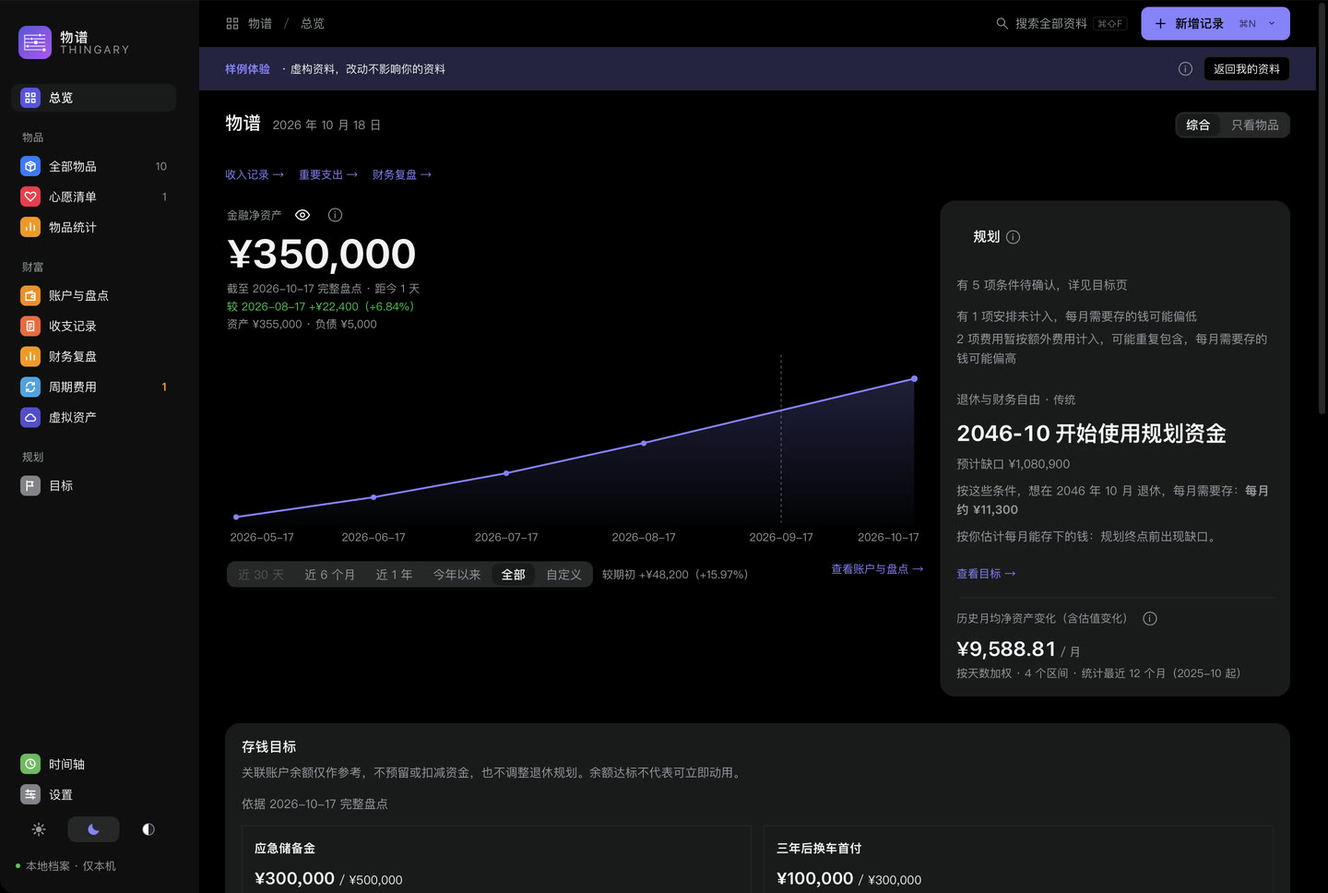
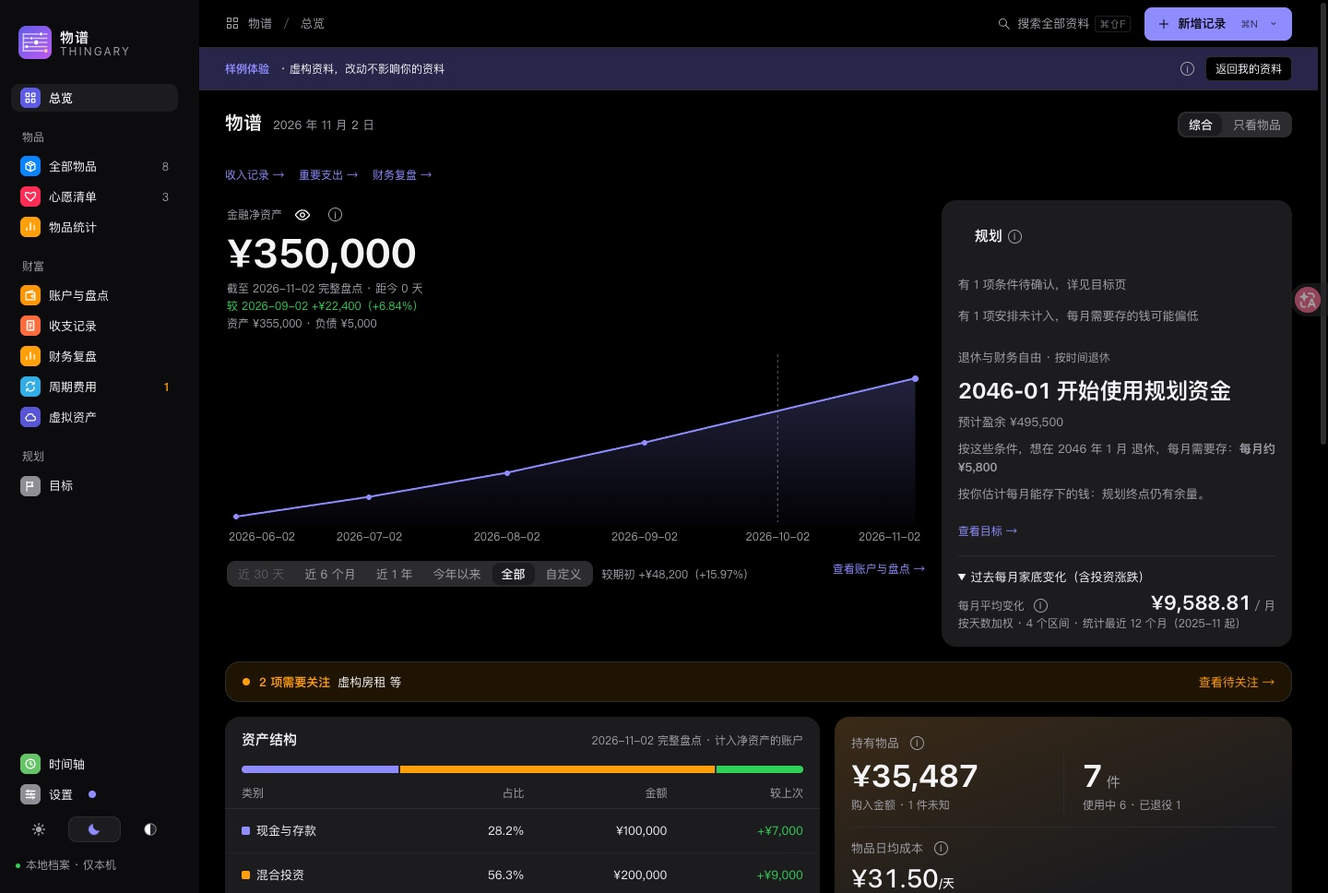
docs: refresh 0.1.0 screenshots and image audit

diff --git a/site/index.html b/site/index.html
@@ -81,14 +81,14 @@
 
         <figure class="showcase">
           <div class="showcase-frame"><picture><source media="(prefers-color-scheme: dark)" srcset="../docs/images/overview-dark.jpg"><img src="../docs/images/overview-light.jpg" width="1440" height="968" fetchpriority="high" alt="物谱总览 / Thingary overview: net-worth trend and planning summary, using fictional records"></picture></div>
-          <figcaption class="showcase-caption"><span class="utility" lang="en">THINGARY / OVERVIEW</span><span class="zh" lang="zh-CN">真实应用界面 · 虚构样例资料</span><span class="en" lang="en">Actual app · Fictional sample records</span></figcaption>
+          <figcaption class="showcase-caption"><span class="utility" lang="en">THINGARY / OVERVIEW</span><span class="zh" lang="zh-CN">0.1.0 浏览器预览 · 虚构样例资料 · 非原生截图</span><span class="en" lang="en">0.1.0 browser preview · Fictional sample records · Not a native capture</span></figcaption>
         </figure>
         <div class="principles" aria-label="特点 / At a glance"><span><svg aria-hidden="true"><use href="#check"/></svg><span class="zh" lang="zh-CN">本地使用</span><span class="en" lang="en">Local first</span></span><span><svg aria-hidden="true"><use href="#check"/></svg><span class="zh" lang="zh-CN">无需账号</span><span class="en" lang="en">No account</span></span><span><svg aria-hidden="true"><use href="#check"/></svg><span class="zh" lang="zh-CN">代码开源</span><span class="en" lang="en">Open-source code</span></span></div>
       </section>
       <section id="film" class="film wrap" aria-label="介绍视频 / Film">
         <figure class="showcase">
           <div class="showcase-frame"><video controls playsinline preload="none" width="1920" height="1080" poster="../docs/images/thingary-film-poster.jpg"><source src="../docs/images/thingary-film.mp4" type="video/mp4"><a href="../docs/images/thingary-film.mp4">下载介绍视频 / Download the film</a></video></div>
-          <figcaption class="showcase-caption"><span class="utility" lang="en">THINGARY / FILM · 0:53</span><span class="zh" lang="zh-CN">53 秒看懂物谱 · 真实应用界面，虚构样例资料</span><span class="en" lang="en">53-second film · Actual app, fictional records · Chinese captions</span></figcaption>
+          <figcaption class="showcase-caption"><span class="utility" lang="en">THINGARY / FILM · 0:53</span><span class="zh" lang="zh-CN">53 秒看懂物谱 · 浏览器界面预览，虚构样例资料，非原生录像</span><span class="en" lang="en">53-second film · Browser UI preview, fictional records · Not a native recording</span></figcaption>
         </figure>
       </section>
       <section id="features" class="features wrap" aria-label="功能 / Features">
@@ -101,7 +101,7 @@
     <div class="feature-copy"><p class="feature-tag">账户与盘点</p><h3>分散的余额，<br>完整的家底。</h3>
       <p>银行卡、余额宝、券商、公积金，还有房贷，也可以记外币账户和按份额持有的投资。把资产与欠款放在一起，定期核对余额，看清净资产如何变化。</p><div class="feature-note">每月或每季盘点一次。<br>不必把生活变成一笔笔流水。</div>
     </div>
-    <figure class="feature-art"><a href="../docs/images/wealth-light.jpg" aria-label="查看账户与盘点完整截图"><img src="../docs/images/wealth-light.jpg" width="1440" height="968" loading="lazy" alt="账户与盘点：资产负债汇总与净资产趋势，虚构资料"></a><figcaption>同一份记录，连起这一次与上一次盘点。</figcaption></figure>
+    <figure class="feature-art"><a href="../docs/images/wealth-light.jpg" aria-label="查看账户与盘点浏览器预览大图"><img src="../docs/images/wealth-light.jpg" width="1440" height="968" loading="lazy" alt="0.1.0 账户与盘点浏览器预览：资产负债汇总与净资产趋势，虚构资料"></a><figcaption>同一份记录，连起这一次与上一次盘点。<small>0.1.0 浏览器预览 · 虚构资料 · 非原生</small></figcaption></figure>
   </article>
   <article class="feature reverse">
     <div class="feature-copy"><p class="feature-tag">目标与规划</p><h3>想过的生活，<br>有可以核对的计划。</h3>
@@ -110,14 +110,14 @@
 <details><summary>歇一阵能撑多久？</summary><p>临时比较空窗、开销或换工作的影响。试算不改账户余额，结论也不是收益承诺。</p></details>
 </div>
     </div>
-    <figure class="feature-art"><a href="../docs/images/planning-goals.jpg" aria-label="查看目标与规划完整截图"><img src="../docs/images/planning-goals.jpg" width="1440" height="968" loading="lazy" alt="目标页：左侧计算条件，右侧结论与资产轨迹，虚构资料"></a><figcaption>先看结论，再按需展开依据与假设。</figcaption></figure>
+    <figure class="feature-art"><a href="../docs/images/planning-goals.jpg" aria-label="查看目标与规划浏览器预览大图"><img src="../docs/images/planning-goals.jpg" width="1440" height="968" loading="lazy" alt="0.1.0 目标页浏览器预览：左侧计算条件，右侧结论，虚构资料"></a><figcaption>先看结论，再按需展开依据与假设。<small>0.1.0 浏览器预览 · 虚构资料 · 非原生</small></figcaption></figure>
   </article>
   <div class="collection"><article>
-<figure class="feature-art"><a href="../docs/images/assets-light.jpg" aria-label="查看物品档案完整截图"><img src="../docs/images/assets-light.jpg" width="1440" height="968" loading="lazy" alt="物品档案：虚构物品的购买信息、状态与持有成本"></a></figure>
+<figure class="feature-art"><a href="../docs/images/assets-light.jpg" aria-label="查看物品档案浏览器预览大图"><img src="../docs/images/assets-light.jpg" width="1440" height="968" loading="lazy" alt="0.1.0 物品档案浏览器预览：虚构物品的购买信息、状态与持有成本"></a><figcaption>0.1.0 浏览器预览 · 虚构资料 · 非原生</figcaption></figure>
 <h3>用心拥有的，值得留个档。</h3><p>照片、购买成本、维修与保障，放在同一份物品档案里。可以独立使用，也可以按需开启。</p>
 </article>
 <article>
-<figure class="feature-art"><a href="../docs/images/annual-review.jpg" aria-label="查看区间回顾完整截图"><img src="../docs/images/annual-review.jpg" width="1440" height="968" loading="lazy" alt="区间回顾：近 1 年的盘点变化、收入和重要支出，虚构资料"></a></figure>
+<figure class="feature-art"><a href="../docs/images/annual-review.jpg" aria-label="查看区间回顾浏览器预览大图"><img src="../docs/images/annual-review.jpg" width="1440" height="968" loading="lazy" alt="0.1.0 区间回顾浏览器预览：近 1 年的盘点变化、收入和重要支出，虚构资料"></a><figcaption>0.1.0 浏览器预览 · 虚构资料 · 非原生</figcaption></figure>
 <h3>偶尔回头，看看走了多远。</h3><p>近 1 年、今年以来、全部或自选日期，回顾积累与支出。净资产变化和投资收益，始终分开看。</p>
 </article>
 </div>
@@ -131,7 +131,7 @@
     <div class="feature-copy"><p class="feature-tag">Account check-ins</p><h3>Separate accounts.<br>One clear picture.</h3>
       <p>Bring balances and debts together, including bank accounts, investments, housing provident funds, and loans; foreign-currency accounts and share-based holdings are supported. Check in periodically to follow your net worth.</p><div class="feature-note">Once a month or quarter.<br>No daily transaction logging required.</div>
     </div>
-    <figure class="feature-art"><a href="../docs/images/wealth-light.jpg" aria-label="View full account check-in screenshot"><img src="../docs/images/wealth-light.jpg" width="1440" height="968" loading="lazy" alt="Account check-ins with assets, debts, and a net-worth trend; fictional data"></a><figcaption>A record of where you are, and how it has changed.</figcaption></figure>
+    <figure class="feature-art"><a href="../docs/images/wealth-light.jpg" aria-label="View the full account check-in browser preview"><img src="../docs/images/wealth-light.jpg" width="1440" height="968" loading="lazy" alt="0.1.0 browser preview of account check-ins with assets, debts, and a net-worth trend; fictional data"></a><figcaption>A record of where you are, and how it has changed.<small>0.1.0 browser preview · Fictional data · Not native</small></figcaption></figure>
   </article>
   <article class="feature reverse">
     <div class="feature-copy"><p class="feature-tag">Goals and planning</p><h3>Your life plans.<br>Numbers you can check.</h3>
@@ -140,14 +140,14 @@
 <details><summary>How long could I take off?</summary><p>Compare a work break, different expenses, or a job change without changing account balances. Estimates are not promised returns.</p></details>
 </div>
     </div>
-    <figure class="feature-art"><a href="../docs/images/planning-goals.jpg" aria-label="View full planning screenshot"><img src="../docs/images/planning-goals.jpg" width="1440" height="968" loading="lazy" alt="Planning goals: conditions on the left, conclusion and asset trajectory on the right; fictional data"></a><figcaption>See the conclusion, then inspect its assumptions.</figcaption></figure>
+    <figure class="feature-art"><a href="../docs/images/planning-goals.jpg" aria-label="View the full planning browser preview"><img src="../docs/images/planning-goals.jpg" width="1440" height="968" loading="lazy" alt="0.1.0 planning browser preview: conditions on the left and conclusion on the right; fictional data"></a><figcaption>See the conclusion, then inspect its assumptions.<small>0.1.0 browser preview · Fictional data · Not native</small></figcaption></figure>
   </article>
   <div class="collection"><article>
-<figure class="feature-art"><a href="../docs/images/assets-light.jpg" aria-label="View full belongings screenshot"><img src="../docs/images/assets-light.jpg" width="1440" height="968" loading="lazy" alt="Optional belongings catalog with fictional items and ownership costs"></a></figure>
+<figure class="feature-art"><a href="../docs/images/assets-light.jpg" aria-label="View the full belongings browser preview"><img src="../docs/images/assets-light.jpg" width="1440" height="968" loading="lazy" alt="0.1.0 belongings browser preview with fictional items and ownership costs"></a><figcaption>0.1.0 browser preview · Fictional data · Not native</figcaption></figure>
 <h3>A place for the things you keep.</h3><p>Photos, purchase costs, repairs, and warranties, together. Use belongings records independently, or enable them when you need them.</p>
 </article>
 <article>
-<figure class="feature-art"><a href="../docs/images/annual-review.jpg" aria-label="View full period review screenshot"><img src="../docs/images/annual-review.jpg" width="1440" height="968" loading="lazy" alt="Period review with balance changes, income, and major expenses; fictional data"></a></figure>
+<figure class="feature-art"><a href="../docs/images/annual-review.jpg" aria-label="View the full period review browser preview"><img src="../docs/images/annual-review.jpg" width="1440" height="968" loading="lazy" alt="0.1.0 period review browser preview with balance changes, income, and major expenses; fictional data"></a><figcaption>0.1.0 browser preview · Fictional data · Not native</figcaption></figure>
 <h3>Look back. See what has changed.</h3><p>Review the last year, year to date, all time, or custom dates. Net-worth changes and investment profit stay distinct.</p>
 </article>
 </div>

diff --git a/docs/images/README.md b/docs/images/README.md
@@ -1,16 +1,73 @@
 # 界面截图与维护
 
+## 0.1.0 对照（2026-11-02）
+
+下表逐张核对当前文件。2026-11-02 使用本分支的 0.1.0 源码运行 `visual-preview.html?demo=1&style=bento`，由 Ego Lite（Chromium）在 1440×968 视口捕获总览浅色／深色、账户与盘点、全部物品、目标、区间回顾和存钱目标；内存样例全部为虚构资料，隐藏了开发预览角标。七张 PNG 转成 JPEG 后替换同名文件，`walkthrough.gif` 再由这些 0.1.0 浏览器截图重建。浏览器预览证明当前前端布局与展示，**不是 macOS／Windows 原生截图，也不替代原生功能验收**。
+
+`start-choice.jpg` 展示已取消的首次用途选择页。0.1.0 首次启动直接进入虚构样例，因此删除该图及用户指南引用；来源设置仍可能使用同名的内部组件，但那不是本图展示的空资料起步页。
+
+| 文件 | 当前引用位置 | 与 0.1.0 一致 | 依据／处理 |
+|---|---|---|---|
+| `annual-review.jpg` | `site/index.html` | 是（浏览器预览） | 由当前 0.1.0 源码捕获；画面为「区间回顾」默认近 1 年。 |
+| `assets-light.jpg` | `docs/USER_GUIDE.md`、`site/index.html` | 是（浏览器预览） | 由当前 0.1.0 源码捕获；选中 MacBook Pro 后显示摘要。 |
+| `backup-security.jpg` | 未在用户文档或官网引用 | 未验证 | 来源记录为 0.0.7 历史原生图；未按 0.1.0 原生重拍。 |
+| `backup-settings.jpg` | `docs/USER_GUIDE.md` | 未验证 | 0.0.5 历史原生图；当前源码仍复用同一数据管理入口，但未做 0.1.0 原生核对。 |
+| `career-trial.jpg` | 未在用户文档或官网引用 | 未验证 | 0.0.5 历史图，来源记录已注明入口后移；仅作历史证据。 |
+| `expenses-year.jpg` | `docs/USER_GUIDE.md` | 未验证 | 0.0.5 历史原生图；未按 0.1.0 重拍。 |
+| `finance-records.jpg` | `docs/USER_GUIDE.md` | 未验证 | 0.0.5 历史原生图；未按 0.1.0 重拍。 |
+| `finance-review.jpg` | `docs/USER_GUIDE.md` | 未验证 | 0.0.8 历史原生图；当前「本期复盘」页仍需原生核对。 |
+| `first-item-form.jpg` | `docs/USER_GUIDE.md` | 未验证 | 0.0.6 历史原生图；当前源码仍有新增物品表单，未据此宣称 0.1.0 原生一致。 |
+| `first-snapshot-form.jpg` | `docs/USER_GUIDE.md` | 未验证 | 0.0.5 历史原生图；首次盘点流程未按 0.1.0 原生重拍。 |
+| `first-snapshot-result.jpg` | `docs/USER_GUIDE.md` | 未验证 | 0.0.5 历史原生图；首次盘点流程未按 0.1.0 原生重拍。 |
+| `install-flow.svg` | `docs/USER_GUIDE.md` | 不适用 | 安装流程示意 SVG，不是应用截图。 |
+| `overview-dark.jpg` | `site/index.html` | 是（浏览器预览） | 由当前 0.1.0 源码捕获的深色总览。 |
+| `overview-light.jpg` | `docs/USER_GUIDE.md`、`site/index.html` | 是（浏览器预览） | 由当前 0.1.0 源码捕获的浅色总览；正文与 alt 已标明非原生。 |
+| `planning-coverage-full.jpg` | `docs/USER_GUIDE.md` | 未验证 | 0.0.6 历史原生图；未按 0.1.0 原生重拍。 |
+| `planning-detail.jpg` | `docs/USER_GUIDE.md` | 未验证 | 0.0.5 历史原生图；未按 0.1.0 原生重拍。 |
+| `planning-fi-conclusion-full.jpg` | 未在用户文档或官网引用 | 未验证 | 0.0.6 历史原生图；保留作历史证据，不作为当前界面说明。 |
+| `planning-fi-goals.jpg` | 未在用户文档或官网引用 | 未验证 | 0.0.6 历史原生图；保留作历史证据。 |
+| `planning-fi-trajectory-full.jpg` | `docs/USER_GUIDE.md` | 未验证 | 0.0.6 历史原生图；未按 0.1.0 原生重拍。 |
+| `planning-fi-trajectory.jpg` | 未在用户文档或官网引用 | 未验证 | 0.0.6 历史原生图；保留作历史证据。 |
+| `planning-goals.jpg` | `docs/USER_GUIDE.md`、`site/index.html` | 是（浏览器预览） | 由当前 0.1.0 源码捕获；左右布局与当前 CHANGELOG 描述一致。 |
+| `planning-market-full.jpg` | `docs/USER_GUIDE.md` | 未验证 | 0.0.6 历史原生图；未按 0.1.0 原生重拍。 |
+| `planning-market.jpg` | 未在用户文档或官网引用 | 未验证 | 0.0.6 历史原生图；保留作历史证据。 |
+| `planning-matrix-full.jpg` | `docs/USER_GUIDE.md` | 未验证 | 0.0.6 历史原生图；未按 0.1.0 原生重拍。 |
+| `planning-matrix.jpg` | 未在用户文档或官网引用 | 未验证 | 0.0.6 历史原生图；保留作历史证据。 |
+| `planning-monthly-full.jpg` | 未在用户文档或官网引用 | 未验证 | 0.0.6 历史原生图；保留作历史证据。 |
+| `planning-monthly.jpg` | 未在用户文档或官网引用 | 未验证 | 0.0.6 历史原生图；保留作历史证据。 |
+| `planning-report-current.png` | `docs/USER_GUIDE.md` | 未验证 | 0.0.5 历史原生图；报告内容与隐私规则仍需 0.1.0 原生核对。 |
+| `planning-report.jpg` | 未在用户文档或官网引用 | 未验证 | 0.0.5 历史图；用户指南已改用 `planning-report-current.png`。 |
+| `planning-review.jpg` | 未在用户文档或官网引用 | 未验证 | 0.0.5 历史原生图；保留作历史证据。 |
+| `planning-sequence-full.jpg` | `docs/USER_GUIDE.md` | 未验证 | 0.0.6 历史原生图；未按 0.1.0 原生重拍。 |
+| `planning-sequence.jpg` | 未在用户文档或官网引用 | 未验证 | 0.0.6 历史原生图；保留作历史证据。 |
+| `planning-stress-full.jpg` | `docs/USER_GUIDE.md` | 未验证 | 0.0.6 历史原生图；未按 0.1.0 原生重拍。 |
+| `planning-stress.jpg` | 未在用户文档或官网引用 | 未验证 | 0.0.6 历史原生图；保留作历史证据。 |
+| `planning-trajectory.jpg` | 未在用户文档或官网引用 | 未验证 | 0.0.6 历史原生图；保留作历史证据。 |
+| `planning-trial.jpg` | `docs/USER_GUIDE.md` | 未验证 | 0.0.6 历史原生图；当前试算入口仍存在，但未做 0.1.0 原生核对。 |
+| `planning-yearly.jpg` | `docs/USER_GUIDE.md` | 未验证 | 0.0.5 历史原生图；未按 0.1.0 原生重拍。 |
+| `savings-goals.jpg` | 经 `walkthrough.gif` 出现在 `README.md`、`README.en.md` | 是（浏览器预览） | 由当前 0.1.0 总览捕获；画面包含虚构存钱目标。 |
+| `social-preview.svg` | 未在用户文档或官网引用 | 不适用 | 品牌社交预览 SVG，不是应用截图。 |
+| `start-choice.jpg` | 原先用于 `docs/USER_GUIDE.md` | 否（已删除） | 展示已取消的用途选择页；0.1.0 首次启动直接进入虚构样例，引用已移除。 |
+| `stats-dark.jpg` | 未在用户文档或官网引用 | 未验证 | 0.0.5 历史原生图；未按 0.1.0 原生重拍。 |
+| `stats-light.jpg` | 未在用户文档或官网引用 | 未验证 | 0.0.5 历史原生图；未按 0.1.0 原生重拍。 |
+| `subscription-detail.jpg` | `docs/USER_GUIDE.md` | 未验证 | 0.0.5 历史原生图；未按 0.1.0 原生重拍。 |
+| `thingary-film-poster.jpg` | `site/index.html` | 不适用 | 介绍视频封面，来自浏览器界面预览和合成画面，不是原生截图。 |
+| `thingary-film.mp4` | `site/index.html` | 不适用 | Remotion 合成的浏览器界面预览视频，不是原生操作录像。 |
+| `update-check-006.jpg` | 未在用户文档或官网引用 | 否（历史） | 画面明确为 0.0.6 更新检查结果；保留作历史证据，不代表当前版本。 |
+| `walkthrough.gif` | `README.md`、`README.en.md` | 是（浏览器预览） | 由上述六张 0.1.0 浏览器截图重建；960×645、六帧、21 秒，不是连续操作录像。 |
+| `wealth-light.jpg` | `site/index.html` | 是（浏览器预览） | 由当前 0.1.0 源码捕获；主按钮为「更新今天的余额」。 |
+
 ## 介绍视频（2026-10-19）
 
 `thingary-film.mp4`（1920×1080，53 秒，H.264 + AAC，约 6 MB）与封面 `thingary-film-poster.jpg` 用于产品主页 `#film`。画面由仓库外的 Remotion 项目合成：界面部分是浏览器视觉预览（`visual-preview.html?demo=1`，内存虚构样例，浅色）按步骤截取的 1440×900 逻辑像素、3× 截图，录制时在界面上填了信用卡还款安排、改了退休方式与每月能存的钱；画面里去掉了样例提示条与"虚构"前缀，角标注明数据均为虚构样例。浏览器预览不代表原生能力已验收；配乐为代码合成。
 
-## 0.0.8 候选重拍（2026-10-17）
+## 0.0.8 历史重拍（2026-10-17）
 
-`planning-goals.jpg`、`finance-review.jpg`、`annual-review.jpg` 与 `walkthrough.gif` 按 0.0.8 候选界面重拍：目标页左右布局（条件｜结果与资产轨迹，无顶部三问）、财务复盘只有「本期复盘／区间回顾」两个页签、区间回顾使用首页同款选期（默认近 1 年）并以小折线替代大曲线。来源为主分支提交后的隔离应用（身份 `local.thingary.shots.s20261017w8`，版本 0.0.8），资料为内置虚构样例，柔和卡片主题浅色；真实 macOS 原生窗口 1440×1000 点、2× 捕获（2880×2000），去掉 32 点标题栏后缩放到 **1440×968** JPEG，不改文字或数值。截图保留顶部「样例体验」提示条。`walkthrough.gif` 由 `node scripts/build-walkthrough.mjs` 重建，其余帧同日重拍，见下。另有 `overview-light.jpg`、`overview-dark.jpg`、`wealth-light.jpg`、`assets-light.jpg`、`savings-goals.jpg` 同日（2026-10-18）按同一应用、同一规格重拍：总览（含净资产图范围切换与两张虚构存钱目标「应急储备金」50 万、「三年后换车首付」30 万，通过样例内的原生表单新增）、账户与盘点概览（范围切换、图例与新按钮名称「盘点全部账户」）、全部物品（选中一件的详情）。这些反映 0.0.7 之后改动的页面；其他图片未重拍，仍为下表来源。
+`planning-goals.jpg`、`finance-review.jpg`、`annual-review.jpg` 与 `walkthrough.gif` 当时按 0.0.8 候选界面重拍：目标页左右布局（条件｜结果与资产轨迹，无顶部三问）、财务复盘只有「本期复盘／区间回顾」两个页签、区间回顾使用首页同款选期（默认近 1 年）并以小折线替代大曲线。来源为主分支提交后的隔离应用（身份 `local.thingary.shots.s20261017w8`，版本 0.0.8），资料为内置虚构样例，柔和卡片主题浅色；真实 macOS 原生窗口 1440×1000 点、2× 捕获（2880×2000），去掉 32 点标题栏后缩放到 **1440×968** JPEG，不改文字或数值。截图保留顶部「样例体验」提示条。另有 `overview-light.jpg`、`overview-dark.jpg`、`wealth-light.jpg`、`assets-light.jpg`、`savings-goals.jpg` 于 2026-10-18 按同一应用、同一规格重拍。本节仅保留历史来源；其中 `overview-light.jpg`、`overview-dark.jpg`、`wealth-light.jpg`、`assets-light.jpg`、`savings-goals.jpg`、`planning-goals.jpg`、`annual-review.jpg` 和 `walkthrough.gif` 已在 0.1.0 对照中替换，旧字节可由 Git 历史取得。`finance-review.jpg` 仍是本段来源的 0.0.8 历史图。
 
-## 0.0.7 候选主线截图（界面冻结后）
+## 0.0.7 历史主线截图（界面冻结后）
 
-除下述重拍的 `annual-review.jpg` 外，本组于 2026-10-16 在主分支 `83990e6` 同源码的隔离应用（身份 `local.thingary.shots.s20261016`，柔和卡片主题，浅色为主）中重新拍摄，资料为虚构：内置样例的 10 件物品、5 个账户，加两个虚构存钱目标（应急储备金 50 万、三年后换车首付 30 万）。真实 macOS 原生窗口，窗口 1440×1000 点、2× 捕获，去掉 32 点系统标题栏后缩放到 **1440×968** JPEG，不改文字或数值。
+本组于 2026-10-16 在主分支 `83990e6` 同源码的隔离应用（身份 `local.thingary.shots.s20261016`，柔和卡片主题，浅色为主）中重新拍摄，资料为虚构：内置样例的 10 件物品、5 个账户，加两个虚构存钱目标（应急储备金 50 万、三年后换车首付 30 万）。真实 macOS 原生窗口，窗口 1440×1000 点、2× 捕获，去掉 32 点系统标题栏后缩放到 **1440×968** JPEG，不改文字或数值。下表描述历史文件当时的画面；0.1.0 对照中标为浏览器重拍的文件已不再保留这些旧字节。
 
 | 文件 | 内容 |
 |---|---|
@@ -29,9 +86,9 @@
 
 `walkthrough.gif` 随此图重建：六帧中仅区间回顾帧为本次新捕获，其他五帧沿用本组原生截图；960×645、每帧 3.5 秒、21 秒循环。它是静态截图顺序预览，不能作为连续操作录像或原生功能完整验收的证据。
 
-下列旧表保留为 0.0.5 及更早的历史说明；未列入上表的文件沿用旧来源。
+下列旧表保留为 0.0.5 及更早的历史说明。文件名相同不代表当前文件仍是旧截图；逐图当前状态以上方 0.1.0 对照为准。
 
-## 当前 0.0.5 截图
+## 0.0.5 历史截图
 
 2026-10-13 在 `v0.0.5`（`8f018a080ffcc6b936dc1ababe2168b4d697c8b0`）同源码的隔离应用中重新拍摄下表图片和 GIF，更新页面标题下的标签、目标主按钮及“计入净资产的账户”文案。已发布的标签、DMG 和其中的旧离线指南保持原样；这些截图修订随主分支维护，下次发布再打包。
 
@@ -39,7 +96,7 @@
 
[1 lines of base64/hex data omitted]
 
-| 当前文件 | 原生状态／操作 |
+| 历史文件 | 原生状态／操作 |
 |---|---|
 | `overview-light.jpg`、`overview-dark.jpg` | 同一内置样例的综合总览，浅／深色；资产结构说明已更新 |
 | `assets-light.jpg` | 样例全部物品；状态分段、价格与日期未知保留 |
@@ -91,11 +148,11 @@ planning-monthly.jpg、planning-fi-goals.jpg、planning-trajectory.jpg、plannin
 
 固定月份退休的轨迹、压力／市场／矩阵／收益顺序图使用每月投入 8,000、生活费 7,500、可用资金 100,000、2046-10 目标和 2076-10 终点，3%／2% 实际收益、2% 通胀、5% 波动为未核对的虚构条件，结果存在缺口。财务自由图仅将目标类型改为资金够用后退休，同条件预计 2052-05，仍保留待核对事项；两种模式不混作一个预测。市场图展示 1,000 条模型路径及其说明，不表示现实概率。更新图为点击后真实显示 0.0.6 已是最新版本。
 
-本轮再更新 overview-light.jpg、assets-light.jpg、wealth-light.jpg、planning-goals.jpg、first-item-form.jpg 与 planning-trial.jpg，均为上述 0.0.6 独立身份、1440×901 原生内容图。首次新增转到隔离空个人库，表单取消没有创建记录；随后回到虚构样例。walkthrough.gif 改为这版六张原生截图的21秒顺序预览（每帧3.5秒，宽960），不声称是连续操作录像；历史0.0.5维护条目保留为当时记录。
+0.0.6 当时再更新 `overview-light.jpg`、`assets-light.jpg`、`wealth-light.jpg`、`planning-goals.jpg`、`first-item-form.jpg` 与 `planning-trial.jpg`，均为上述 0.0.6 独立身份、1440×901 原生内容图。首次新增转到隔离空个人库，表单取消没有创建记录；随后回到虚构样例。`walkthrough.gif` 当时改为六张原生截图的 21 秒顺序预览；0.1.0 对照中的浏览器截图已替换其中所需帧。
 
 ### GIF 尺寸与重建
 
-README 当前 GIF 使用 `overview-light.jpg`、`wealth-light.jpg`、`planning-goals.jpg`、`savings-goals.jpg`、`annual-review.jpg`、`assets-light.jpg`，顺序与本页当前主线截图表一致。区间回顾帧采用本次 1440×968 新图，其他五帧沿用该表登记的来源；上文 0.0.5／0.0.6 条目保留当时的文件组合与尺寸，不代表当前 GIF。
+README 当前 GIF 使用 0.1.0 重拍的 `overview-light.jpg`、`wealth-light.jpg`、`planning-goals.jpg`、`savings-goals.jpg`、`annual-review.jpg`、`assets-light.jpg`。六帧都由当前源码的浏览器预览捕获，不沿用历史原生图；上文 0.0.5／0.0.6 条目只记录当时的文件组合与尺寸，不代表当前 GIF。
 
 用 `node scripts/build-walkthrough.mjs` 重建（需本机 `ffmpeg`、`ffprobe`）。脚本读取各图真实尺寸，仅对已登记的标题栏残留裁切，再统一缩放到 **960×645**，保留完整页面主体。输出为 6 张完整画面、每帧 3.5 秒、21 秒循环预览；输入尺寸或输出帧数、尺寸、时长不符时停止生成，避免沿用错误裁切参数。重建不改应用文字或数值，不替换已公开安装包。
 

diff --git a/docs/USER_GUIDE.md b/docs/USER_GUIDE.md
@@ -141,9 +141,9 @@ Windows 选图仅接受 **JPEG、PNG、WebP**；HEIC／HEIF 请先另存为 JPEG
 
 首次打开直接进入独立的虚构样例库，顶部醒目显示「先看看样例」。可以浏览和修改样例，它们不会混进自己的资料。
 
-![当前源码总览：原生虚构盘点与目标估算](images/overview-light.jpg)
+![0.1.0 浏览器预览中的样例总览，虚构资料，非原生截图](images/overview-light.jpg)
 
-图中为 0.0.6 内置虚构样例，仍有待确认项，只说明当时布局。当前新建或重置的样例已补齐费用与贷款安排，按保存的假设可以达成完整目标，待确认项为零；这仍是虚构演示与估算。
+图为 2026-11-02 从 0.1.0 当前源码的浏览器预览捕获，使用内存中的虚构样例，不是原生应用验收。样例里仍有需要核对的条件；所有金额、目标和进度只用于演示，不是现实预测。
 
 首次打开不再先问用途：所有功能默认开启，先在样例里随便看。准备好后点顶部醒目的 **「开始记录我的资料」** 进入自己的空白资料，侧栏里的各项功能照常可用。不想看到的功能，可在「设置 › 功能模块」按用途（**盘一盘我的钱、整理我的物品、为以后做计划**）或逐项关闭，已有资料会保留。
 
@@ -152,8 +152,6 @@ Windows 选图仅接受 **JPEG、PNG、WebP**；HEIC／HEIF 请先另存为 JPEG
 侧栏直接显示已开启的功能。默认保留全部，暂时不用的用途或功能可在设置中关闭，已有资料会保留；以后重新开启即可恢复入口。
 
 以后到「设置 › 功能模块 › 重新选择用途」调整，或直接使用下面的细项开关。取消不会生效；关闭入口会隐藏功能，资料保留，随时可以打开。关闭的用途重新开启时，该用途下的功能会全部开启。用途窗口可以按 Tab 切换、空格勾选，按 Esc 或「取消」放弃；保存或取消后，焦点回到「重新选择用途」。小窗口中底部操作保持可见。取消物品用途会暂停心愿提醒，取消钱用途会暂停订阅续期与盘点提醒；用途窗口会按取消项说明，保障提醒不受影响，重新开启后按原设置安排。不会根据你的操作自动改变这些设置。
-
-![自己的资料未开始时的起步选择，隔离身份的原生虚构样例](images/start-choice.jpg)
 
 <a id="first-snapshot"></a>
 
@@ -178,7 +176,7 @@ Windows 选图仅接受 **JPEG、PNG、WebP**；HEIC／HEIF 请先另存为 JPEG
 
 ![第一次盘点后的概览](images/first-snapshot-result.jpg)
 
-本节首次盘点的两张图片来自既有独立原生验收样例，全部使用虚构资料；总览、起步选择和新增物品的更新图也来自隔离身份的原生应用。安装步骤图是示意图，逐图来源见[截图清单](https://github.com/CoderJackZhu/Thingary/blob/main/docs/images/README.md)。
+本节首次盘点的两张图片来自更早版本的独立原生验收样例，全部使用虚构资料，尚未按 0.1.0 重拍。总览图来自 0.1.0 当前源码的浏览器预览，不是原生截图；新增物品图也来自更早版本。安装步骤图是示意图。逐图状态、引用位置和未验证项见[截图清单](https://github.com/CoderJackZhu/Thingary/blob/main/docs/images/README.md)。
 
 前面电脑的 5,000 元是购入记录，**不加进这 8,000 元金融净资产**；如果银行卡余额已反映购买电脑，不要再从余额中扣一次。净资产变化也不等于投资收益。每次盘点都填写账户的当前数值；旧版缺失金额仍保持为空，不能当成 0。
 

diff --git a/README.en.md b/README.en.md
@@ -10,7 +10,9 @@
 
 <p align="center"><a href="https://github.com/CoderJackZhu/Thingary/releases/tag/v0.1.0"><strong>Download 0.1.0</strong></a> · <a href="https://thingary.jackzhu.top/">Website</a> · <a href="https://thingary.jackzhu.top/quickstart/">Quick start</a> · <a href="https://gitee.com/CoderJackZhu/thingary/releases">Gitee mirror</a> · <a href="https://github.com/CoderJackZhu/Thingary/issues/new?template=usage_feedback.yml">Feedback</a></p>
 
-![21-second slideshow of the fictional sample: overview, accounts, planning, savings goals, period review, and belongings](docs/images/walkthrough.gif)
+![21-second 0.1.0 browser preview of the fictional sample: overview, accounts, planning, savings goals, period review, and belongings](docs/images/walkthrough.gif)
+
+These six frames come from the current 0.1.0 source in a browser preview. This is not a native recording or platform acceptance.
 
 ▶ [53-second film](https://thingary.jackzhu.top/#film) (Chinese captions): monthly check-ins, net-worth changes, belongings, and how saving a little more moves your retirement date.
 

diff --git a/README.md b/README.md
@@ -10,7 +10,9 @@
 
 <p align="center"><a href="https://github.com/CoderJackZhu/Thingary/releases/tag/v0.1.0"><strong>下载 0.1.0</strong></a> · <a href="https://thingary.jackzhu.top/">产品主页</a> · <a href="https://thingary.jackzhu.top/quickstart/">快速上手</a> · <a href="https://gitee.com/CoderJackZhu/thingary/releases">国内镜像</a> · <a href="https://github.com/CoderJackZhu/Thingary/issues/new?template=usage_feedback.yml">使用反馈</a></p>
 
-![虚构样例的 21 秒界面预览：总览、账户盘点、目标、存钱目标、区间回顾与物品](docs/images/walkthrough.gif)
+![0.1.0 浏览器预览的 21 秒虚构样例：总览、账户盘点、目标、存钱目标、区间回顾与物品](docs/images/walkthrough.gif)
+
+这组六帧图由 0.1.0 当前源码在浏览器预览中捕获，不是原生操作录像，也不替代平台验收。
 
 ▶ [53 秒介绍视频](https://thingary.jackzhu.top/#film)：每月盘点、净资产变化、物品档案，以及每月多存一点、退休时间怎么跟着变。
 
